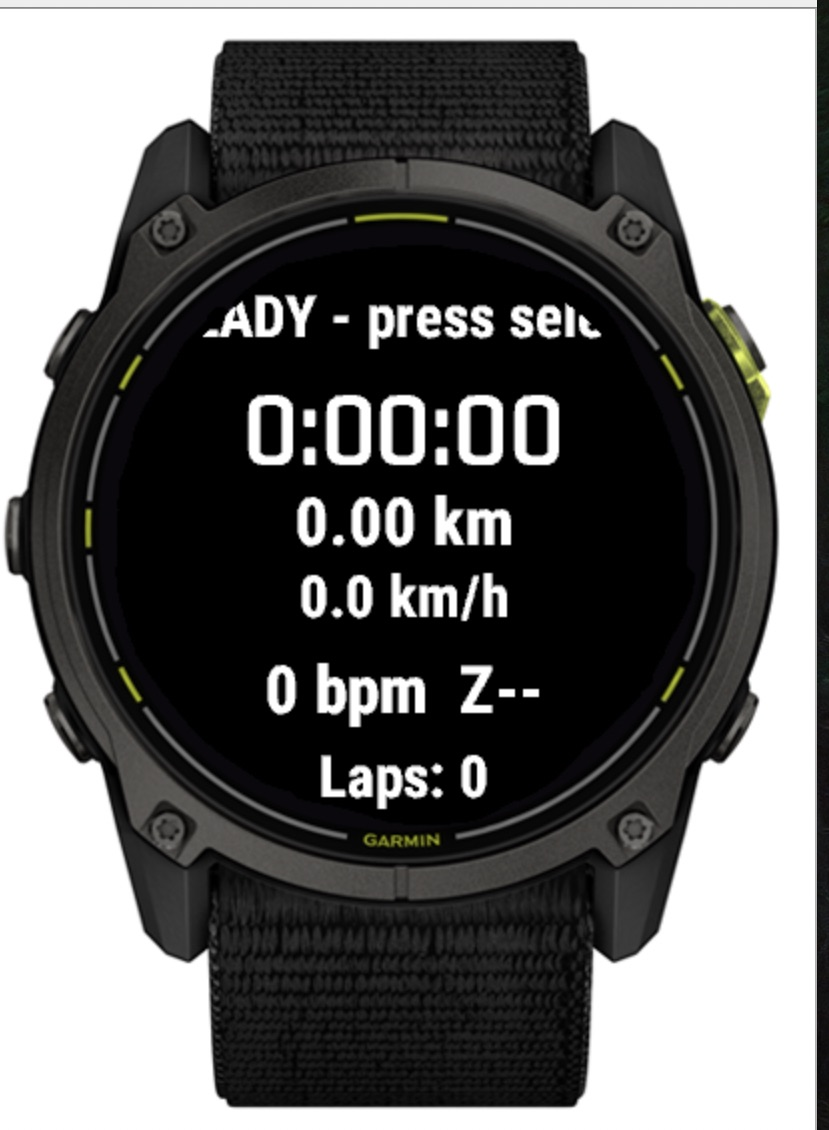
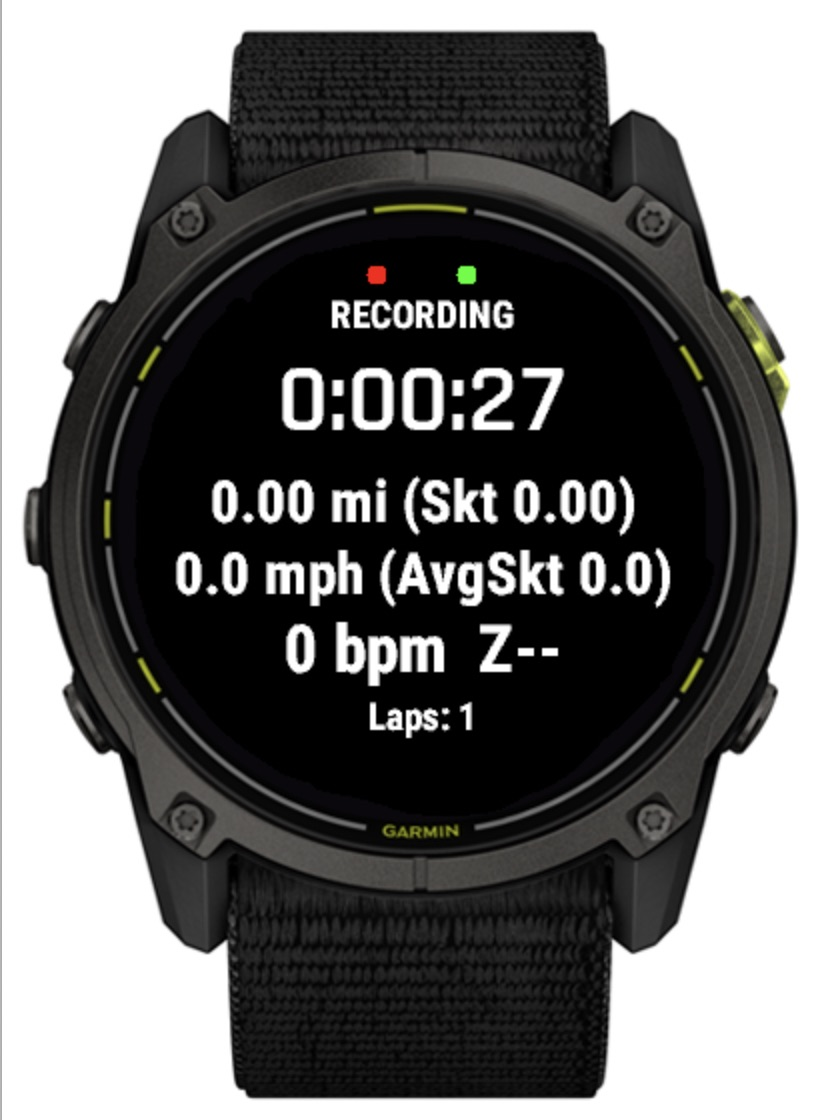
Add manual skate/walk tagging on Up/Down; fix screen layout overlap
Up/Down (onPreviousPage/onNextPage) were confirmed empirically free and
independent of Back/lap on real Enduro 3 hardware, including while
RECORDING -- an earlier comment claiming they duplicated the lap button
was likely a simulator-only artifact. Wire them to a manual skate/walk
tag instead of the dropped GPS-speed classifier: fully reliable since
there's no smoothing/latching to get wrong, just a rider-set flag.

Also fixes a real overlap/clipping bug on the round 280x280 screen,
caught via an actual device screenshot: drawText() anchors at the top of
the text, so the old fixed-fraction line positions didn't account for
FONT_NUMBER_MEDIUM/FONT_MEDIUM being taller than the gaps between them,
and the bottom-most line sat where the round bezel's visible chord is
narrower than the square canvas. Replaced with a running cursor based on
each font's actual height, merged the skate-only stats into the existing
distance/speed lines to fit, and dropped the Select/Back button-hint line
entirely (standard Garmin convention, not worth the screen space).

New manifest app ID -- the previous one got burned by a test upload
(Garmin doesn't free an ID for reuse even after deleting the app), so
this is the one now actually submitted to the Connect IQ Store. Updated
store_screenshot_ready.jpg to match the fixed layout, and added hero.png
(already uploaded to the store listing).

diff --git a/README.md b/README.md
@@ -77,6 +77,21 @@ carry the credit "Freeskate icon by Marcel from the Noun Project."
 
 ## Publishing to the Connect IQ Store
 
+The portal upload is a separate build artifact from the sideload
+`.prg` -- `bin/Freeskate.prg` (built with `-d enduro3`, see above) only
+targets one device and isn't what the portal accepts. Build the
+submission package with:
+
+```
+"$SDK_BIN/monkeyc" -e -o bin/Freeskate.iq -f monkey.jungle \
+    -y developer_key.der -r
+```
+
+(`-e`/`--package-app` produces the `.iq` package; `-r` strips debug info,
+appropriate for a submission build.) Re-run this after every change meant
+for the store, the same way `bin/Freeskate.prg` needs re-running after
+every change meant for sideload -- neither regenerates the other.
+
 The `id` in `manifest.xml` is permanent once uploaded to Garmin's developer
 portal — Garmin's own upload confirmation says as much: an app uploaded
 under one `id` stays a private beta forever (visible only to you, under
@@ -88,6 +103,17 @@ Practically, this means the `id` currently in `manifest.xml` is the one
 intended for public submission — if you need another private beta upload
 later (e.g. to test independently of what's live in the store), generate a
 fresh UUID for that build rather than reusing this one.
+
+**Deleting an app from the dashboard does not free its `id` for reuse.**
+Confirmed by hitting "The manifest app ID is already in use by another
+app" on a fresh submission after deleting the prior beta upload that had
+used that `id` -- the block persisted regardless. Treat every `id` as
+burned the moment it's ever uploaded, beta or not, deleted or not: don't
+test-upload a build as a beta under the `id` you intend to eventually
+submit for public review. If you want to sanity-check that a build
+installs before committing to the real public submission, generate a
+disposable UUID for that test and a separate fresh one for the actual
+submission.
 
 ## Manifest permissions (confirmed by compiler)
 
